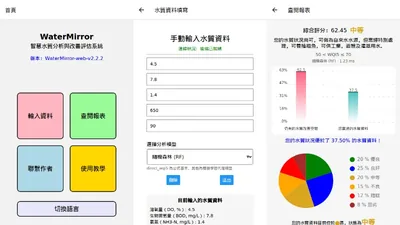
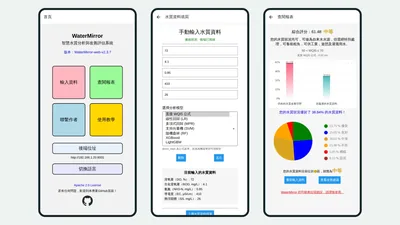
feat(projects): refresh the WaterMirror card with 2.3.7 screens (#150)
Replace the 2.2.2 screenshots with the home, data entry and report
screens of WaterMirror 2.3.7 in Traditional Chinese, captured from the
app's web build against a live WQSurrogateModels 2.3.0 API. Serve the
card at 1600 px with 400 and 800 px candidates. The original PNG is
kept outside the repository with the other source images.

diff --git a/src/config/responsiveImages.js b/src/config/responsiveImages.js
@@ -21,6 +21,7 @@ import environmentalEnforcement from '../../assets/img/environmental-enforcement
 import environmentalEnforcement400 from '../../assets/img/responsive/environmental-enforcement-400.webp'
 import waterMirror from '../../assets/img/watermirror.webp'
 import waterMirror400 from '../../assets/img/responsive/watermirror-400.webp'
+import waterMirror800 from '../../assets/img/responsive/watermirror-800.webp'
 
 export const responsiveImages = {
   brand: {
@@ -51,6 +52,6 @@ export const responsiveImages = {
   },
   waterMirror: {
     src: waterMirror,
-    srcset: `${waterMirror400} 400w, ${waterMirror} 800w`
+    srcset: `${waterMirror400} 400w, ${waterMirror800} 800w, ${waterMirror} 1600w`
   }
 }
